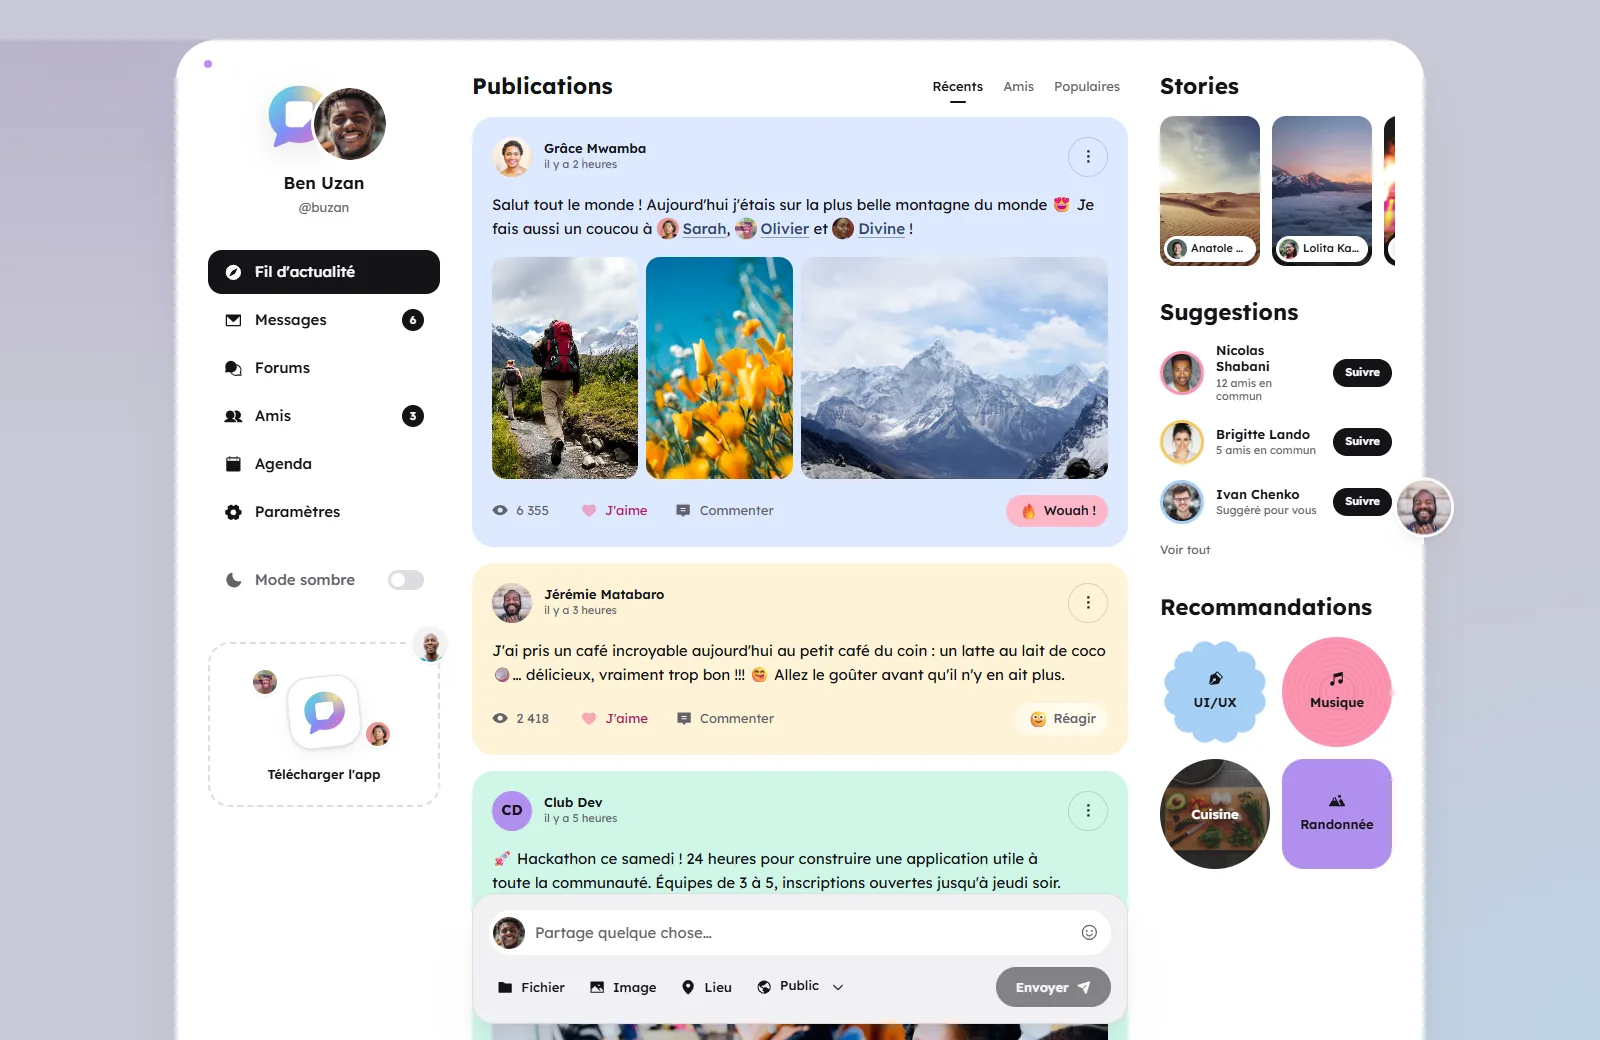
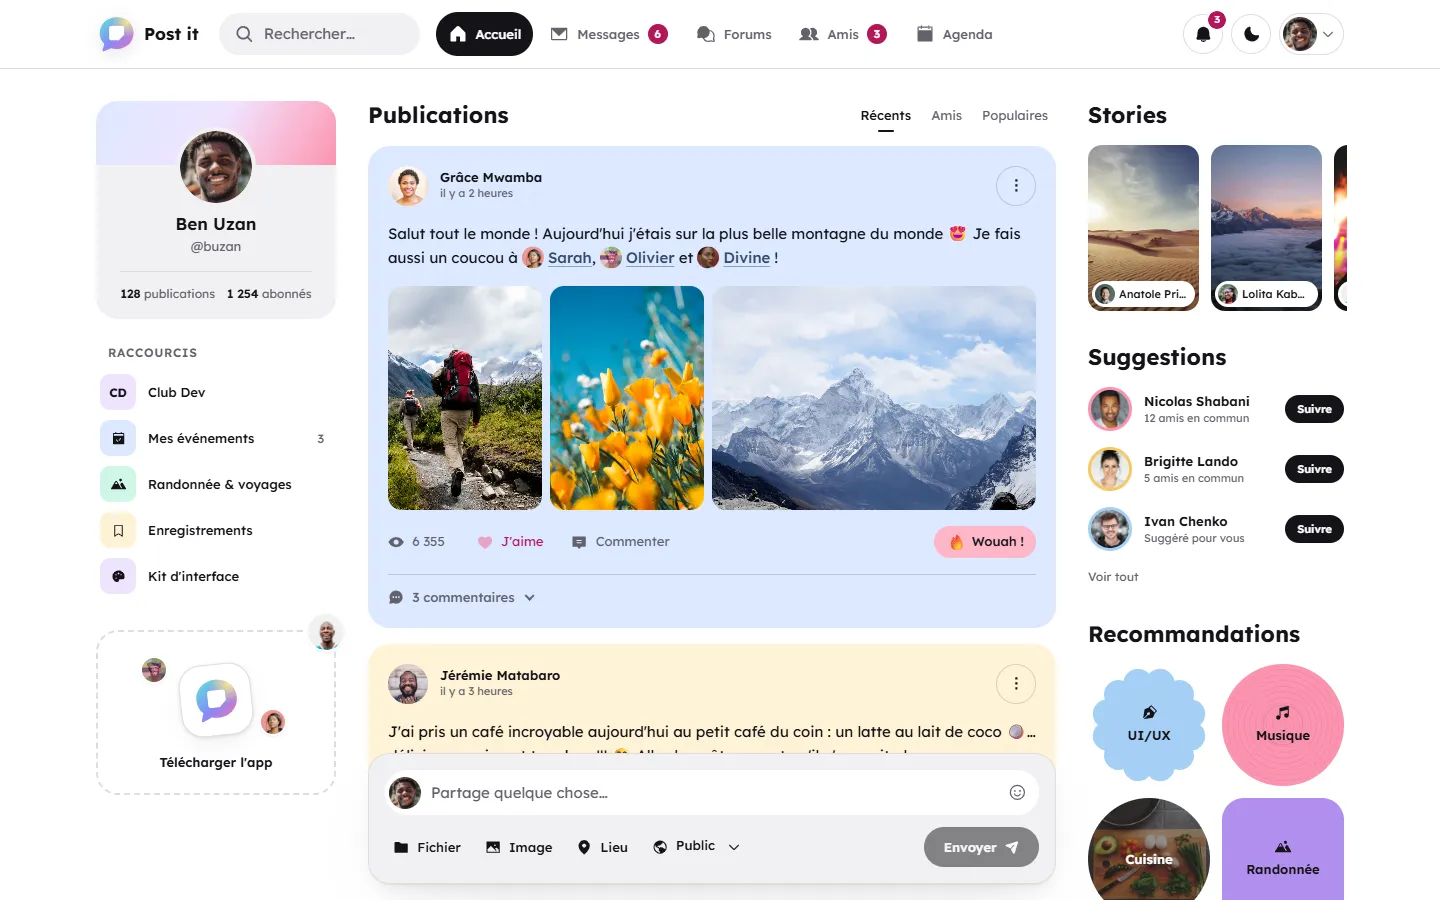
docs: décrit l'en-tête et met à jour les captures du README

diff --git a/CONTRIBUTING.md b/CONTRIBUTING.md
@@ -54,20 +54,24 @@ Types courants : `feat`, `fix`, `docs`, `style`, `refactor`, `perf`, `chore`, `c
 
 ### Blocs partagés (`partials/`)
 
-Le `<head>`, le menu latéral, le lien d'évitement, le toast et le sprite d'icônes sont identiques
+Le `<head>`, l'en-tête (`topbar` : logo, recherche, menus, notifications, compte), la colonne de
+gauche (`sidebar` : profil, raccourcis), le lien d'évitement, le toast et le sprite d'icônes sont identiques
 sur toutes les pages. Ils sont écrits **une seule fois** dans `partials/` puis recopiés dans chaque
 page, entre deux marqueurs :
 
 ```html
-<!-- partial:sidebar -->
+<!-- partial:topbar -->
 …contenu généré, ne pas modifier ici…
-<!-- /partial:sidebar -->
+<!-- /partial:topbar -->
 ```
 
 - Modifiez le fichier de `partials/` (ou une icône de `assets/icons/`), puis lancez
   **`npm run sync`** : toutes les pages sont mises à jour. Commitez le résultat.
-- Le lien actif du menu est déduit de `<body data-page="…">` (valeurs : `fil`, `profil`,
-  `messages`, `forums`, `amis`, `agenda`, `parametres`) : le script y ajoute `aria-current="page"`.
+- Le lien actif est déduit de `<body data-page="…">` (valeurs : `fil`, `profil`, `messages`,
+  `forums`, `amis`, `agenda`, `parametres`, `composants`) : dans l'en-tête et la colonne de
+  gauche, le script ajoute `aria-current="page"` aux liens dont le `data-nav` correspond.
+- Un élément « collant » (`position: sticky`) doit tenir compte de l'en-tête :
+  `inset-block-start: var(--sticky-offset)` (hauteur de l'en-tête, nulle sur mobile).
 - La CI vérifie que les pages sont à jour (`npm run lint:sync`).
 - Pourquoi pas un `fetch` ou des Web Components ? Pour que le site fonctionne en ouvrant les
   fichiers directement depuis le disque (`file://`), sans serveur.
@@ -199,10 +203,10 @@ Une icône seule dans un bouton ou un lien est décorative : donnez au bouton un
 2. Gardez les marqueurs `<!-- partial:… -->` tels quels (même vides) et lancez `npm run sync`.
 3. Gardez un seul `<h1>` (dans `<header class="page-header">`) et un `<main id="main" tabindex="-1">`,
    cible du lien d'évitement.
-4. Sans colonne de droite (`<aside class="aside">`), la mise en page passe toute seule à deux
-   colonnes.
-5. Pour l'ajouter au menu, modifiez `partials/sidebar.html` (avec un `data-nav` unique), puis
-   `npm run sync`.
+4. Sans colonne de droite (`<aside class="aside">`), la colonne de gauche et le contenu se
+   partagent la largeur ; avec elle, la colonne de gauche n'apparaît qu'à partir de 80rem.
+5. Pour l'ajouter aux menus, modifiez `partials/topbar.html` (ou les raccourcis de
+   `partials/sidebar.html`) avec un `data-nav` unique, puis `npm run sync`.
 
 ## Lint
 

diff --git a/README.md b/README.md
@@ -19,7 +19,7 @@ sans framework ni étape de build.
 
 <picture>
   <source media="(prefers-color-scheme: dark)" srcset="docs/screenshot-dark.webp">
-  <img src="docs/screenshot-light.webp" alt="Interface de Post it : menu latéral, fil d'actualité avec publications colorées, stories, suggestions et recommandations">
+  <img src="docs/screenshot-light.webp" alt="Interface de Post it : en-tête avec logo, recherche et menus, colonne de profil et raccourcis, fil d'actualité avec publications colorées, stories, suggestions et recommandations">
 </picture>
 
 **Post it** est un template complet d'interface de réseau social — fil d'actualité, profil,
@@ -97,7 +97,7 @@ npm run dev      # serveur local (équivaut à npx serve .)
 
 ```text
 *.html                  une page par écran (index, profil, messages, forums, amis, agenda…)
-partials/               blocs partagés : <head>, menu latéral, logo, lien d'évitement, toast
+partials/               blocs partagés : <head>, en-tête, colonne de gauche, logo, toast…
 scripts/
   sync-partials.mjs     recopie les blocs partagés et le sprite d'icônes dans chaque page
 assets/
@@ -108,7 +108,7 @@ assets/
     layout.css          grille de l'application + responsive
     components/         un fichier par composant (@layer components)
                         partagés : button avatar tag card section-title page-header forms
-                        tabs dialog popover sidebar toast
+                        tabs dialog popover topbar sidebar toast
                         propres à une page : feed post composer chat forum calendar…
     utilities.css       .visually-hidden, data-tone, etc.
   js/
